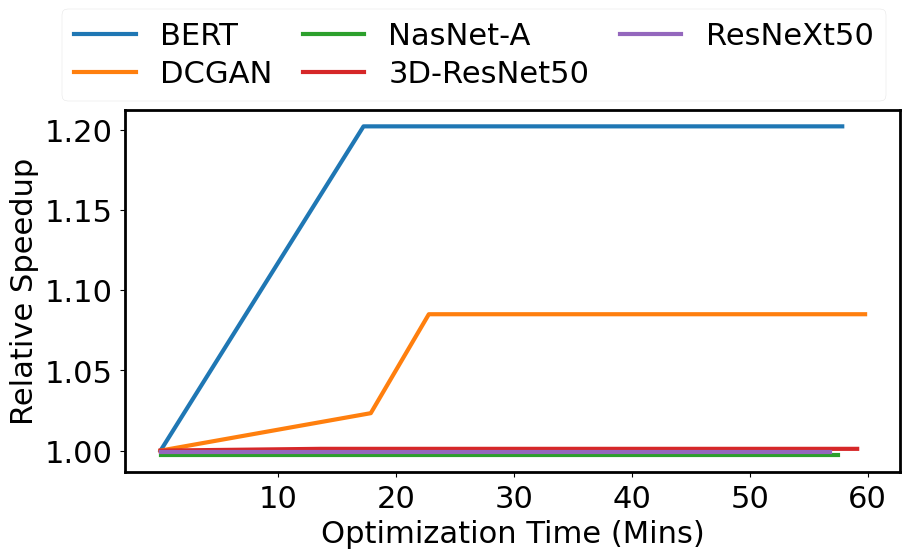
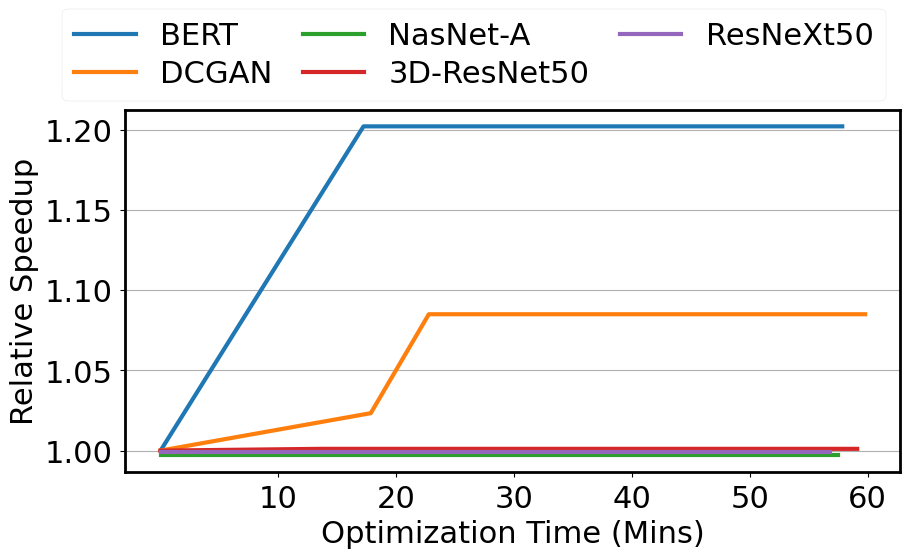
[Plot] grid lines added

diff --git a/sandbox/testing/plot_time_perf.py b/sandbox/testing/plot_time_perf.py
@@ -78,7 +78,11 @@ def plot_all_nets(networks, hw, batch_size):
         rel_speed_up = dp_inf_time/inf_time
 
         net_name = NET_NAME_TO_OFFICIAL[net_name]
+        # print(f"{net_name}: {rel_speed_up}")
         plt.plot(tuning_time, rel_speed_up, label=net_name)
+
+    plt.grid(axis='y', zorder=-2.0)
+    # plt.yticks(np.arange(1.0, 1.21, 0.05))
 
     # plt.xlabel('Tuning time (secs)')
     plt.xticks(range(10, 61, 10))

diff --git a/sandbox/testing/plot_dp_tuning_time.py b/sandbox/testing/plot_dp_tuning_time.py
@@ -22,6 +22,9 @@ def draw_e2e_perf_plot(df):
     plt.xlabel("")
     plt.ylabel('Time (s)')
 
+    plt.grid(axis='y', zorder=-2.0)
+    # plt.yticks(np.arange(20, 121, 20))
+
     plt.xticks(rotation=10)
     plt.legend(ncol=2, loc='upper center', bbox_to_anchor=(0.75, 1.2))
     plt.savefig(f"{EXP_RESULT_PATH}/plots/dp_tuning_time_{TARGET_HW}.png", bbox_inches='tight')
